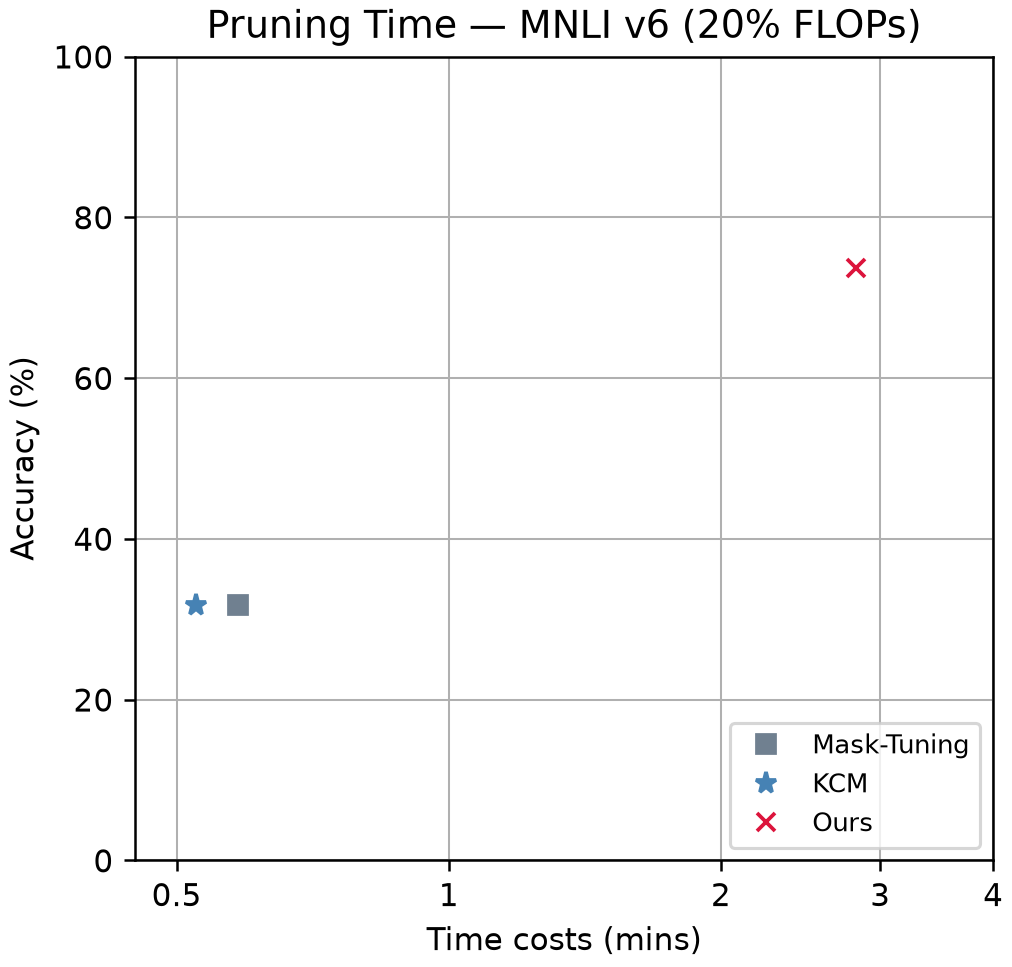
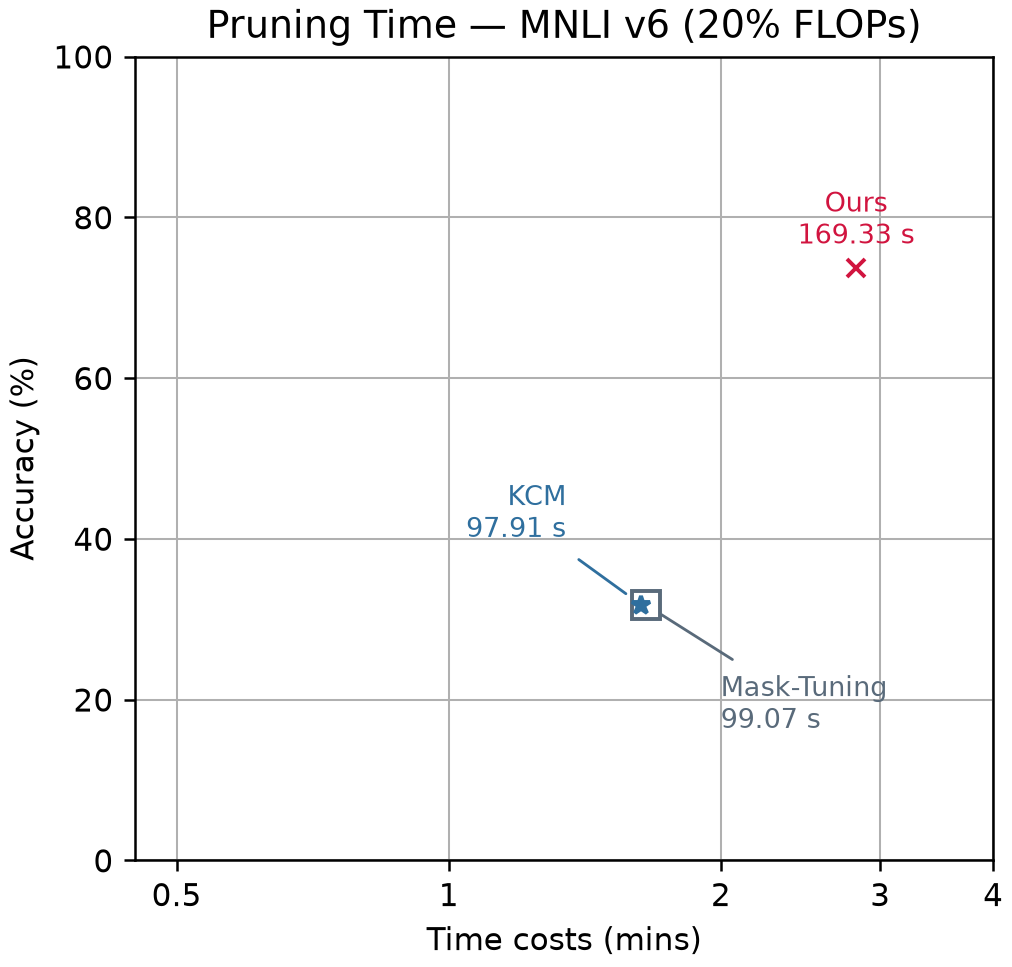
Plot measured post-pruning times at 20% FLOPs

diff --git a/README.md b/README.md
@@ -66,9 +66,9 @@ Biểu đồ thể hiện accuracy trên MNLI matched theo thời gian pruning (
 
 ### Thời gian pruning ở mức 20% FLOPs
 
-![Accuracy MNLI matched theo thời gian pruning ở mức 20% FLOPs cho Ours, KCM và Mask-Tuning trong lần chạy Kaggle v6.](experiments/figure4/figure4_pruning_time_kaggle_v6_20pct.png)
+![Accuracy MNLI matched ở mức 20% FLOPs theo thời gian pruning của Ours và thời gian toàn bước post-pruning của KCM và Mask-Tuning trong lần chạy Kaggle v6.](experiments/figure4/figure4_pruning_time_kaggle_v6_20pct.png)
 
-Lần chạy full v6 dùng `bert-base-uncased` trên Tesla T4, seed `3407`, learning rate `2e-5`, batch size 32 và 3 epoch. Biểu đồ đặt accuracy MNLI matched theo thời gian pruning trên trục log. [Kết quả MNLI v6 trên Kaggle](https://www.kaggle.com/code/lctrnnguynkhi/tnkl-p-pruning-figure4-0-2-flops?scriptVersionId=372998334)
+Lần chạy full v6 dùng `bert-base-uncased` trên Tesla T4, seed `3407`, learning rate `2e-5`, batch size 32 và 3 epoch. Trên trục thời gian log, Ours dùng thời gian pruning (169,33 giây), còn KCM và Mask-Tuning dùng thời gian toàn bước post-pruning (97,91 và 99,07 giây). Hai điểm post-pruning gần trùng nhau vì có cùng accuracy và chỉ chênh 1,16 giây. [Kết quả MNLI v6 trên Kaggle](https://www.kaggle.com/code/lctrnnguynkhi/tnkl-p-pruning-figure4-0-2-flops?scriptVersionId=372998334)
 
 | Phương pháp | Accuracy MNLI matched | FLOPs giữ lại | Pruning (phút) | Toàn bước post-pruning (giây) | Fine-tuning (phút) | Fine-tuning + pruning (phút) |
 |:--|--:|--:|--:|--:|--:|--:|
@@ -77,7 +77,7 @@ Lần chạy full v6 dùng `bert-base-uncased` trên Tesla T4, seed `3407`, lear
 | KCM | 31,82% | 19,999% | 0,52 | 97,91 | 250,45* | 250,97 |
 | Mask-Tuning | 31,82% | 19,998% | 0,58 | 99,07 | 250,45* | 251,03 |
 
-Toàn bước post-pruning gồm nạp checkpoint, chuẩn bị dữ liệu, pruning, đánh giá và lưu mask. Biểu đồ và cột cuối dùng thời gian ở cột Pruning.
+Toàn bước post-pruning gồm nạp checkpoint, chuẩn bị dữ liệu, pruning, đánh giá và lưu mask. Cột cuối cộng thời gian fine-tuning và thời gian ở cột Pruning.
 
 \* KCM và Mask-Tuning dùng chung checkpoint BERT dense đã fine-tune. Mỗi dòng ghi cùng thời gian fine-tuning của checkpoint đó.
 
